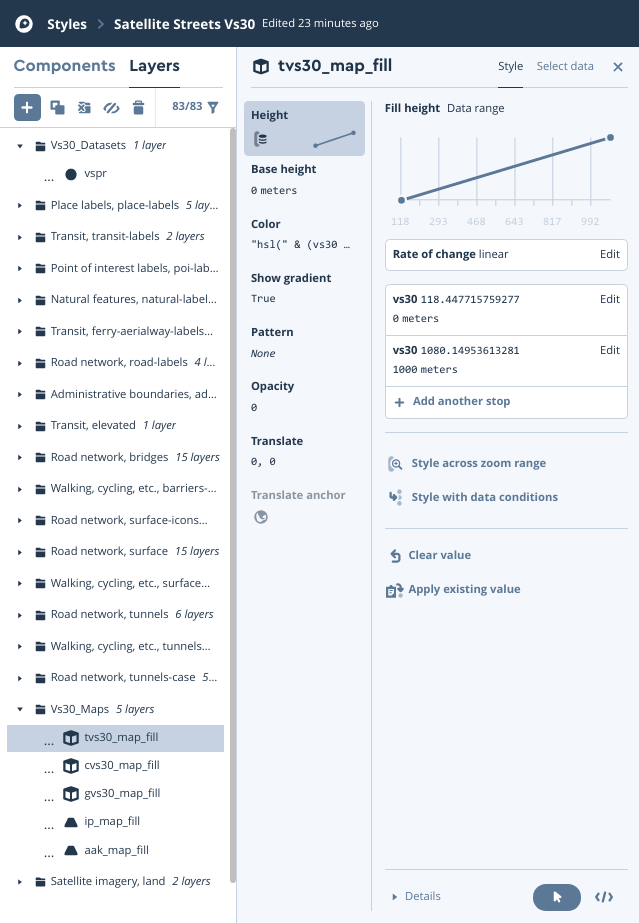
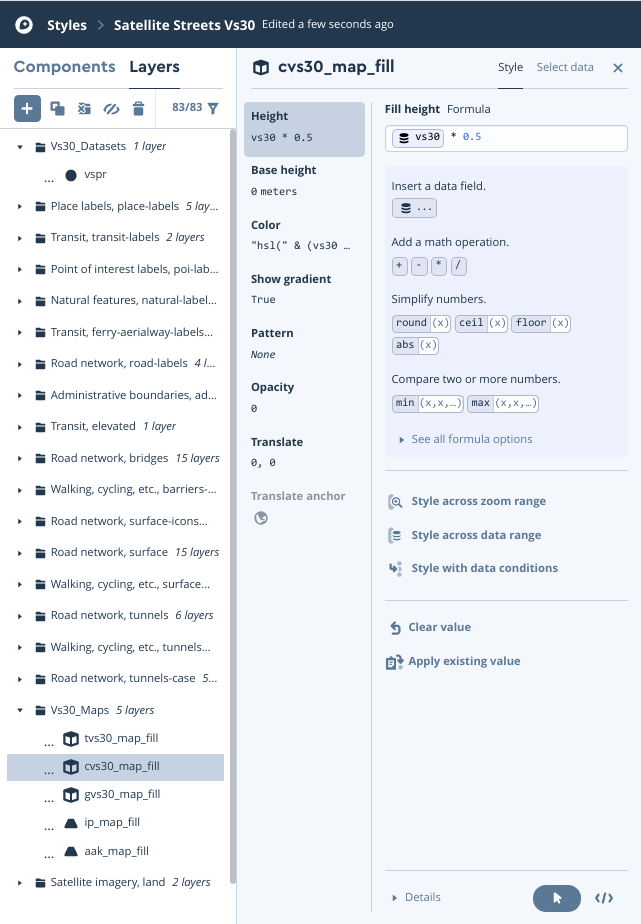
extrusion as factor in extrusion height

diff --git a/server/data/README.md b/server/data/README.md
@@ -18,7 +18,7 @@ This allows more flexibility by being able to specify zoom levels where data is 
 ```
 
 ## Step 3: Upload data to Mapbox
-Upload the mbtiles to the tilesets section in your account. Once you have them in your account you can use the replace option to update data without changing the ID. Once updated, it may take about an hour for the changes to show up on any maps using the tilesets.
+Upload the mbtiles to the tilesets section in your account. Once you have them in your account you can use the replace option to update data without changing the ID. Once updated, it may take about an hour for the changes to show up on any maps using the tilesets. In some cases it may appear to work at first but the map will revert to a previous version. In this case the issue should be resolved overnight.
 
 ## Step 4: Create a map on the server
 `Satellite Streets` is a good basemap to work with because it has a single baselayer with streets/labels above.
@@ -30,7 +30,9 @@ The `ip_map` categories range is (1-16) so the above formula can be used with `1
 
 To set the colour of Vs30 overlays, take example `min_val = 118.9; max_val = 1080.3`. The formula would be `(vs30 - 118) * 0.373` where 0.373 is `360/(max-min)` or `360/(1081-118)` truncated.
 
-Extrusion height can be set by range so that the heighest value is at 1000 meters. A better option would be Vs30 meters.
+Extrusion height is set by Vs30 (formula `Vs30 * 0.5` meters).
+
+It may take a full day for changes to be visible on any maps.
 
 Below are some screens from the map designer.
 
